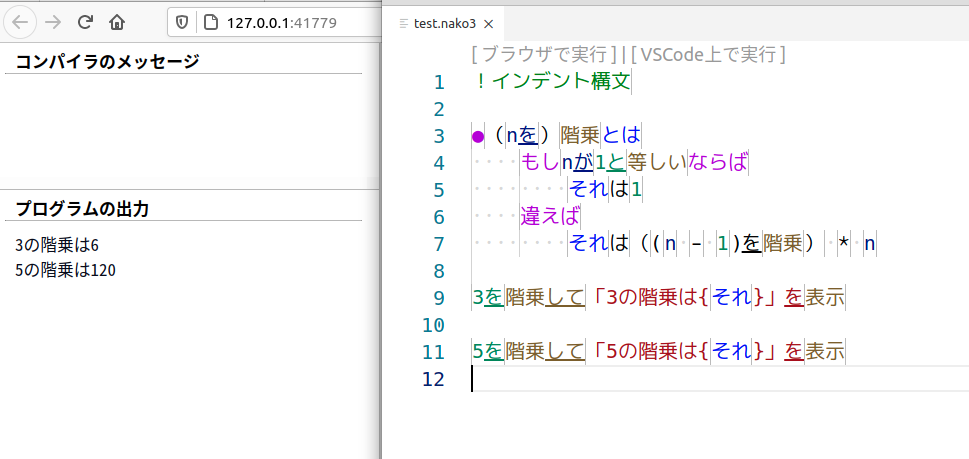
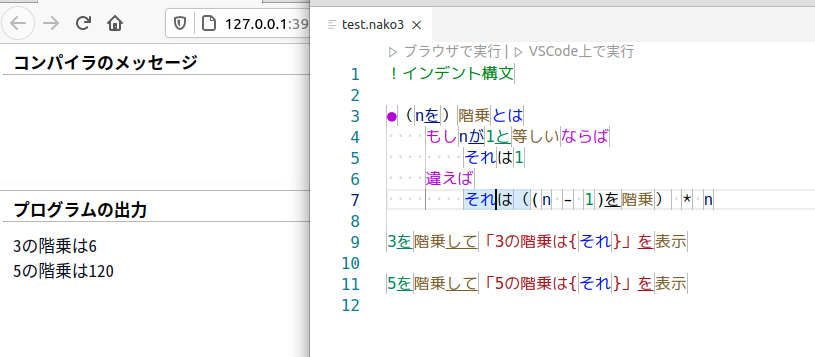
codelensにアイコンを付けた

diff --git a/src/extension.ts b/src/extension.ts
@@ -20,14 +20,14 @@ const codeLendsProvider: vscode.CodeLensProvider = {
 			new vscode.CodeLens(
 				new vscode.Range(0, 0, 0, 0),
 				{
-					title: "[ ブラウザで実行 ]",
+					title: "$(play) ブラウザで実行",
 					command: "nadesiko3.runActiveFileOnBrowser",
 				},
 			),
 			new vscode.CodeLens(
 				new vscode.Range(0, 0, 0, 0),
 				{
-					title: "[ VSCode上で実行 ]",
+					title: "$(play) VSCode上で実行",
 					command: "nadesiko3.runActiveFileOnVSCode",
 				},
 			),
